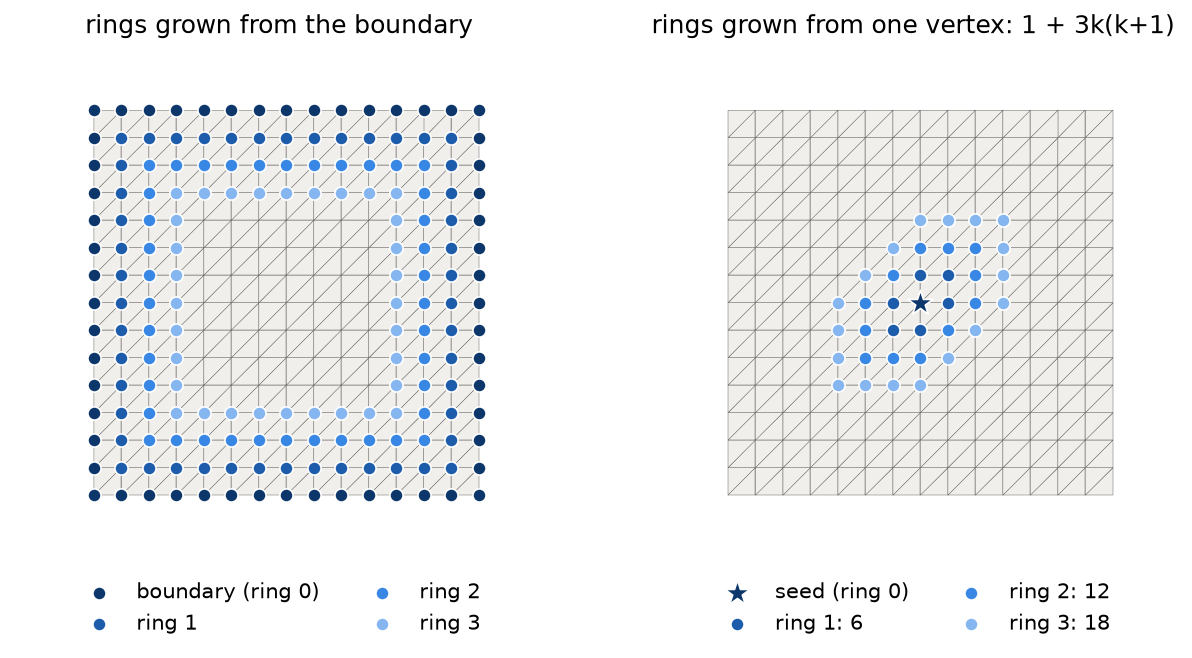
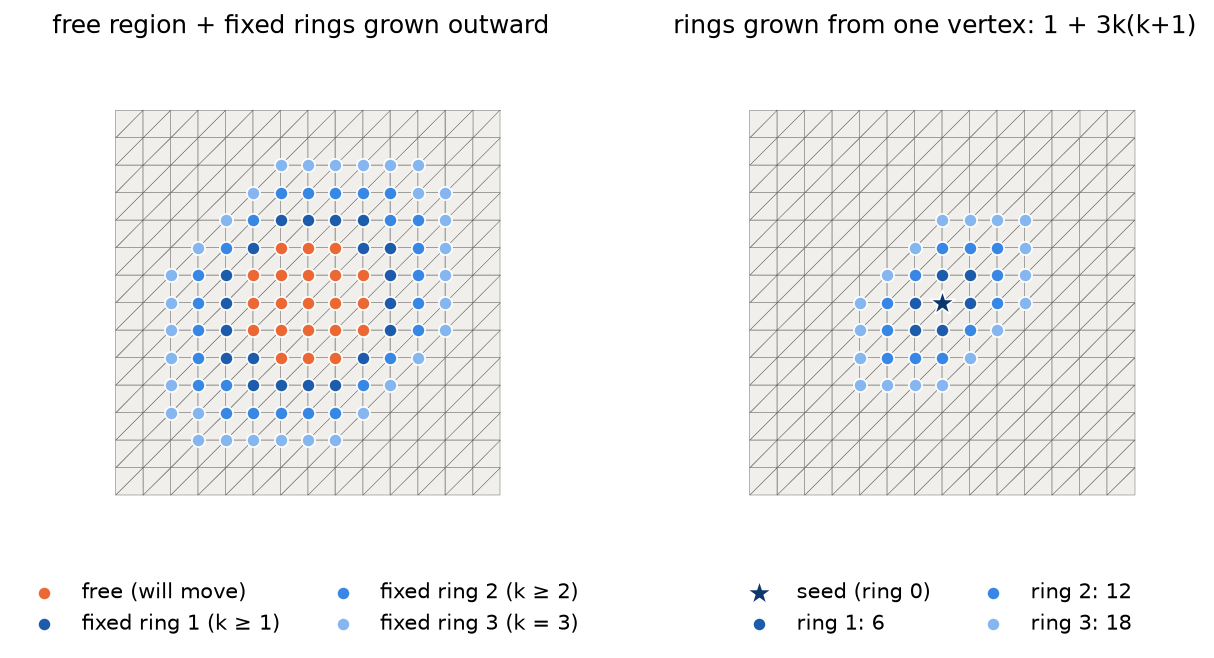
Show fixed rings grown outward from a free region in the rings figure (#4)

diff --git a/examples/01_meshes.py b/examples/01_meshes.py
@@ -12,6 +12,7 @@ from pathlib import Path
 import matplotlib
 matplotlib.use("Agg")
 import matplotlib.pyplot as plt
+import numpy as np
 
 from fairing import mesh, viz
 
@@ -33,33 +34,45 @@ def figure_meshes():
     print("saved", IMG / "03-meshes.png")
 
 
-# Rings 0..3, darkest (ring 0) to lightest: steps of one blue ramp, since the rings are ordered.
+# Ordered rings: steps of one blue ramp, darkest (ring 0) to lightest (ring 3).
 RING_COLORS = ["#0d366b", "#1c5cab", "#3987e5", "#86b6ef"]
+FREE_COLOR = "#eb6834"   # a different hue: free vertices are a different kind, not "ring 0"
+
+
+def _scatter(ax, P, color, label, size=40, marker="o"):
+    ax.scatter(P[:, 0], P[:, 1], P[:, 2], s=size, marker=marker, color=color, label=label,
+               depthshade=False, edgecolors="white", linewidths=0.8)
 
 
 def figure_rings():
-    """Issue #4: rings grown from the boundary, and from one interior vertex."""
+    """Issue #4: the fixed rings around a free region, and the k-rings of one vertex."""
     n = 15
     V, F = mesh.grid(n, n)
-    center = n // 2 + n * (n // 2)
-    panels = [
-        (mesh.boundary_vertices(F), ["boundary (ring 0)", "ring 1", "ring 2", "ring 3"],
-         "rings grown from the boundary"),
-        ([center], ["seed (ring 0)", "ring 1: 6", "ring 2: 12", "ring 3: 18"],
-         "rings grown from one vertex: 1 + 3k(k+1)"),
-    ]
     fig = plt.figure(figsize=(10, 5.2))
-    for k, (seeds, labels, title) in enumerate(panels):
-        ax = fig.add_subplot(1, 2, k + 1, projection="3d")
-        viz.plot_mesh(V, F, ax=ax, title=title, elev=90, azim=-90, color="#f0efec", shade=False)
-        dist = mesh.ring_distance(F, seeds, max_k=3)
-        for d, (color, label) in enumerate(zip(RING_COLORS, labels)):
-            P = V[dist == d]
-            single_seed = d == 0 and len(P) == 1        # a lone seed gets a bigger star
-            ax.scatter(P[:, 0], P[:, 1], P[:, 2], s=160 if single_seed else 40,
-                       marker="*" if single_seed else "o", color=color, label=label,
-                       depthshade=False, edgecolors="white", linewidths=0.8)
-        ax.legend(loc="upper center", bbox_to_anchor=(0.5, 0.02), ncol=2, frameon=False)
+
+    # Left: the fairing setup of #9-#11. A disk of free vertices; the fixed
+    # rings 1, 2, 3 are grown outward from it (k rings are needed for L^k x = 0).
+    ax = fig.add_subplot(1, 2, 1, projection="3d")
+    viz.plot_mesh(V, F, ax=ax, title="free region + fixed rings grown outward",
+                  elev=90, azim=-90, color="#f0efec", shade=False)
+    free = np.flatnonzero(np.linalg.norm(V[:, :2], axis=1) < 0.2)
+    dist = mesh.ring_distance(F, free, max_k=3)
+    _scatter(ax, V[dist == 0], FREE_COLOR, "free (will move)")
+    for d, label in zip((1, 2, 3), ("fixed ring 1 (k ≥ 1)", "fixed ring 2 (k ≥ 2)", "fixed ring 3 (k = 3)")):
+        _scatter(ax, V[dist == d], RING_COLORS[d], label)
+    ax.legend(loc="upper center", bbox_to_anchor=(0.5, 0.02), ncol=2, frameon=False)
+
+    # Right: the k-rings of one vertex. Ring k adds 6k vertices on this lattice.
+    ax = fig.add_subplot(1, 2, 2, projection="3d")
+    viz.plot_mesh(V, F, ax=ax, title="rings grown from one vertex: 1 + 3k(k+1)",
+                  elev=90, azim=-90, color="#f0efec", shade=False)
+    center = n // 2 + n * (n // 2)
+    dist = mesh.ring_distance(F, [center], max_k=3)
+    _scatter(ax, V[dist == 0], RING_COLORS[0], "seed (ring 0)", size=160, marker="*")
+    for d in (1, 2, 3):
+        _scatter(ax, V[dist == d], RING_COLORS[d], f"ring {d}: {6 * d}")
+    ax.legend(loc="upper center", bbox_to_anchor=(0.5, 0.02), ncol=2, frameon=False)
+
     fig.savefig(IMG / "04-rings.png", dpi=150, bbox_inches="tight")
     print("saved", IMG / "04-rings.png")
 

diff --git a/docs/phases/phase-1.md b/docs/phases/phase-1.md
@@ -80,9 +80,10 @@ Checks in `tests/test_topology.py`: grid boundary 2(nx + ny) − 4, sphere 0, tu
 
 ![Rings grown from the boundary and from one vertex](../img/04-rings.png)
 
-`docs/img/04-rings.png`, left: rings 0–3 grown from the boundary. They are nested rectangles, exactly the "k fixed rings" that will surround a free region in #9–#11. Right: rings grown from a single vertex (star). Ring k adds 6k vertices (6, 12, 18), so the k-ring holds 1 + 3k(k+1) vertices: this is the stencil that Lᵏ reaches (App. A.1).
+`docs/img/04-rings.png`, left: the setup that #9–#11 will use. The orange vertices form a free disk; they will move when we solve `Lᵏx = 0`. Everything else is fixed. The fixed rings are grown **outward from the free region**: ring 1 touches it, ring 2 is one step further, and so on. Solving with Lᵏ needs the first k of these rings (k = 1 needs ring 1, k = 2 needs rings 1–2, k = 3 needs rings 1–3), because the Laplacian at a free vertex next to the edge, applied k times, reaches k rings outward. Right: rings grown from a single vertex (star). Ring k adds 6k vertices (6, 12, 18), so the k-ring holds 1 + 3k(k+1) vertices: this is the stencil that Lᵏ reaches (App. A.1).
 
 **Pitfalls.**
 - *Graph distance is not Euclidean distance.* The rings around one vertex form a hexagon sheared along the diagonal direction, not a circle: the diagonal edges make one diagonal direction "shorter" than the other. A "k-ring" band is a topological notion, and on irregular meshes its physical width can vary.
 - *Boundary detection relies on manifold edges.* An edge is counted as boundary when exactly one triangle uses it. A non-manifold edge (three or more triangles) would be counted as interior; our synthetic meshes are all manifold, but the bunny (#14) must be checked.
+- *Which way do the rings grow?* `ring_distance` grows rings outward from whatever seed set it is given. Seeded with the mesh boundary, the rings march inward, which is not what fairing needs. Fairing seeds them with the free region, so the rings grow outward into the fixed part. A first version of the figure seeded the boundary and was confusing; it was replaced.
 - *A plain flat mesh seen from above is shaded gray.* matplotlib lights the surface from an oblique angle, so `plot_mesh` gained `color` and `shade=False` for these top-down diagrams.
